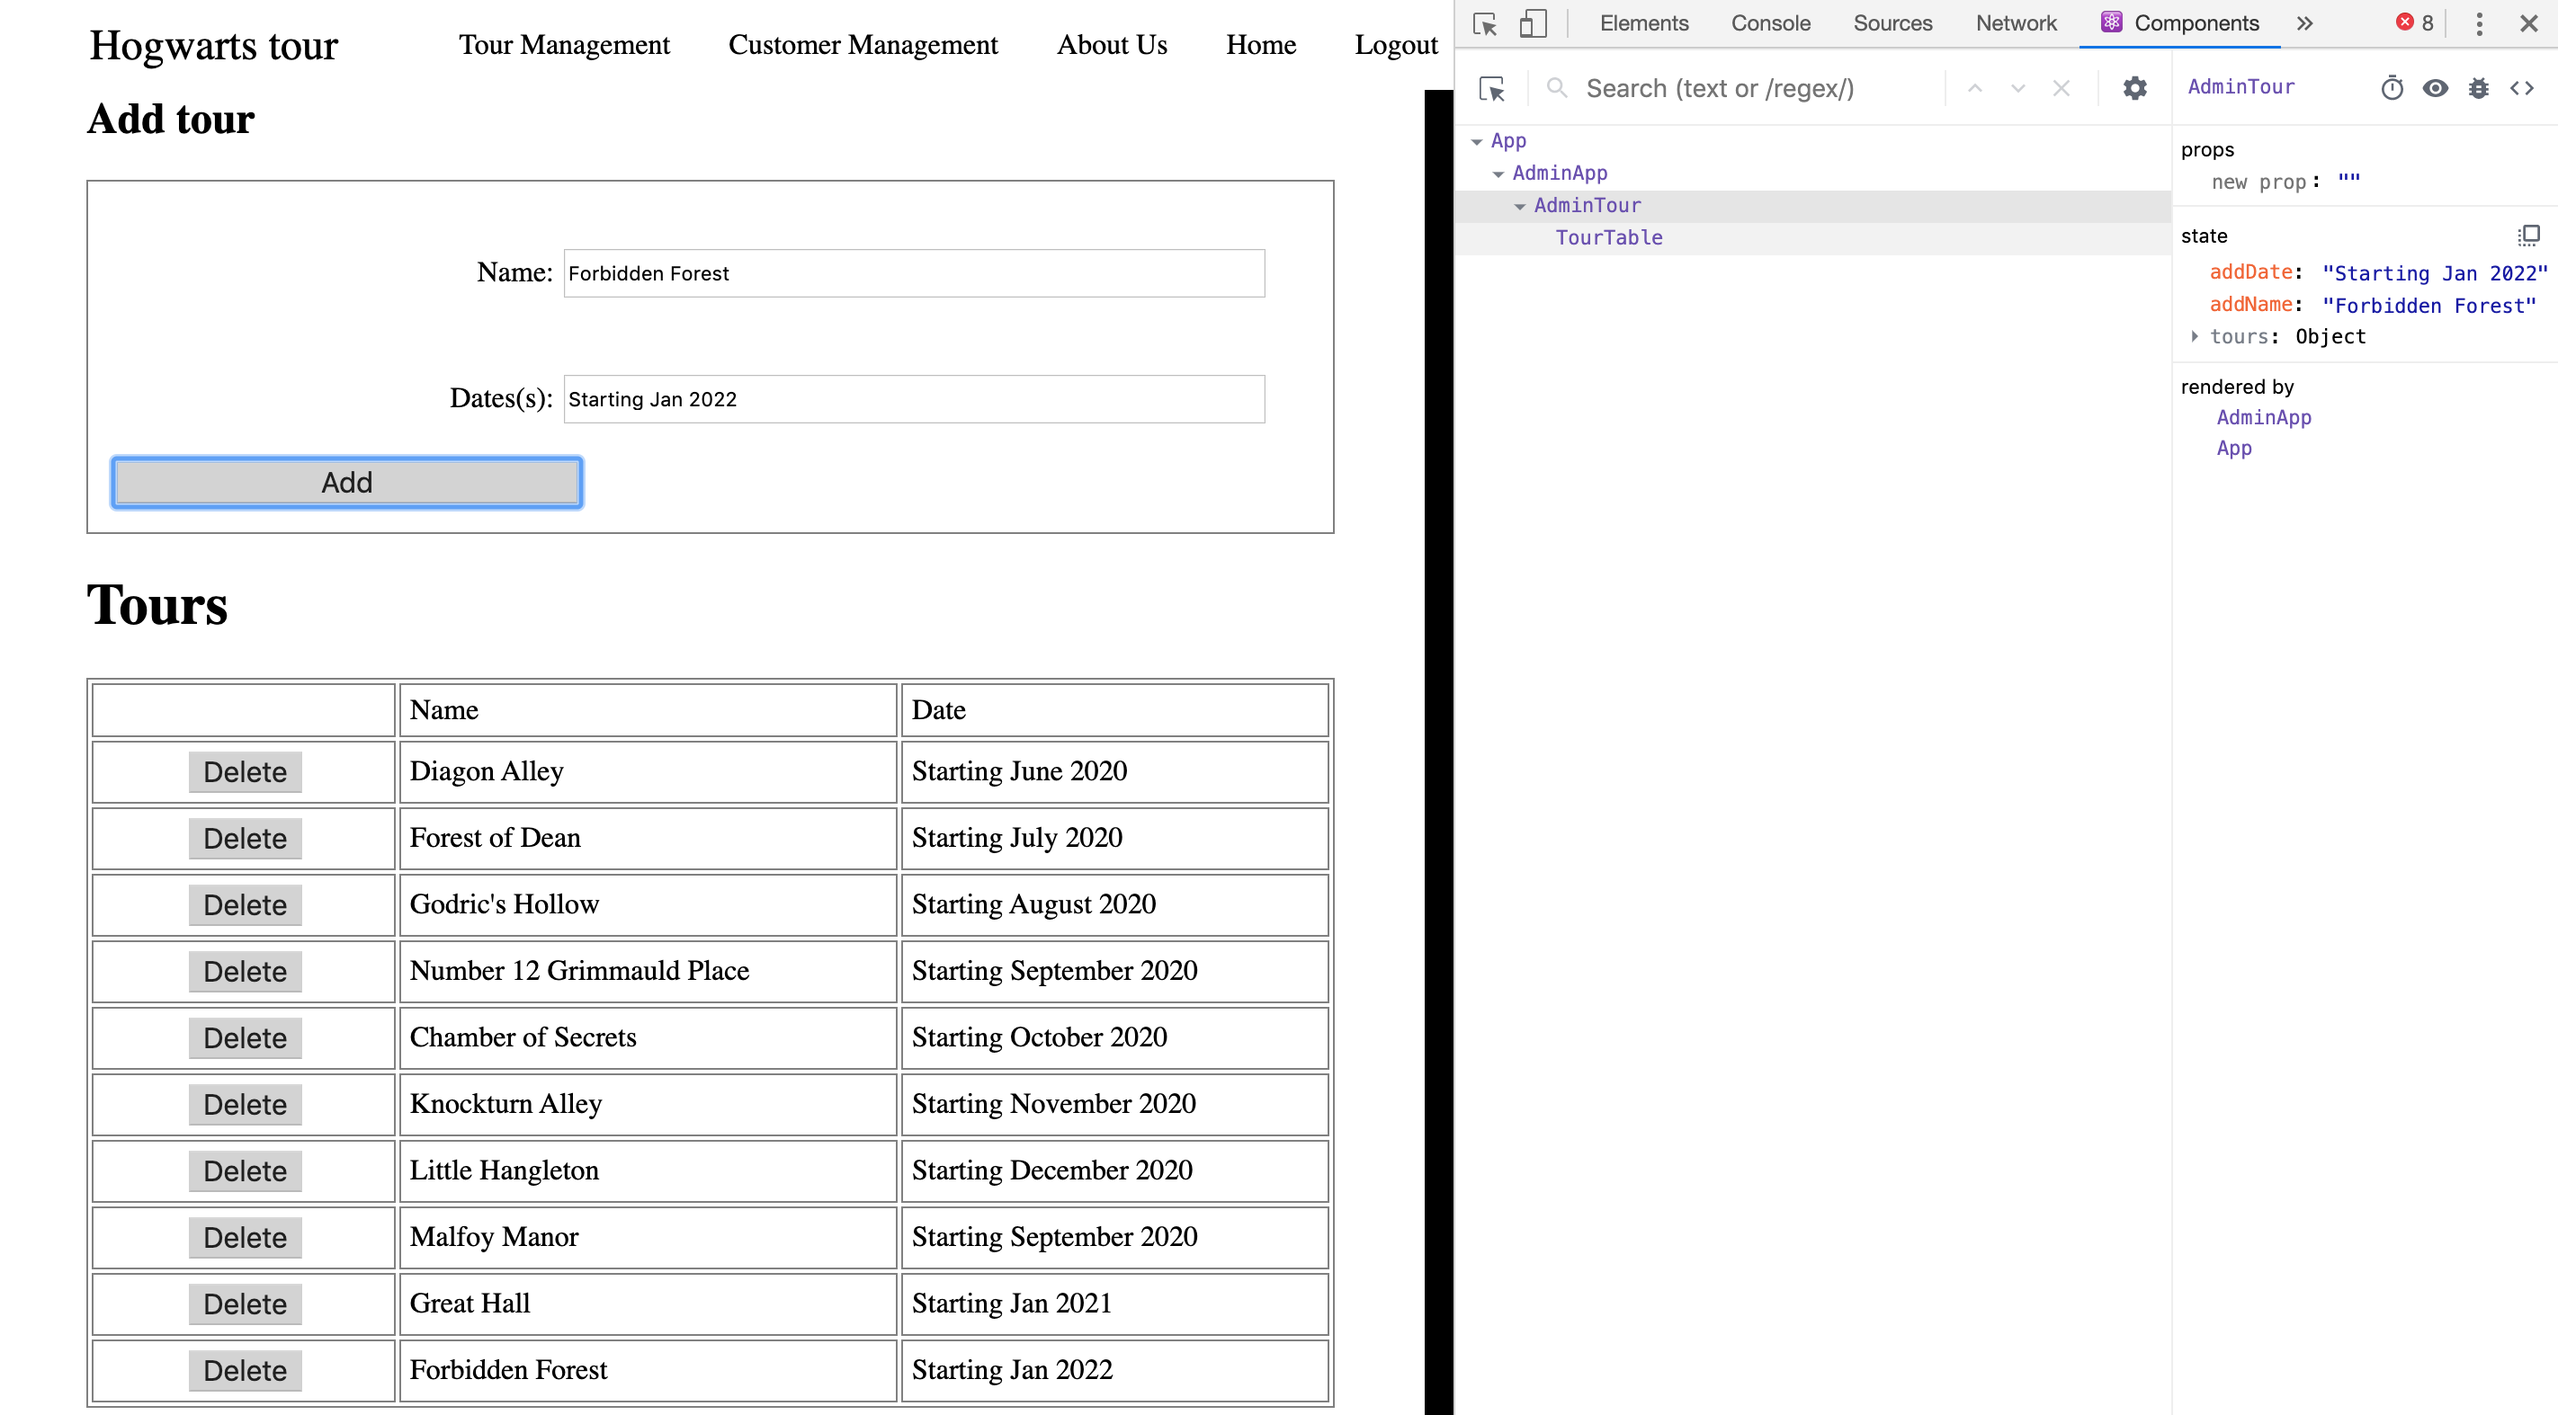
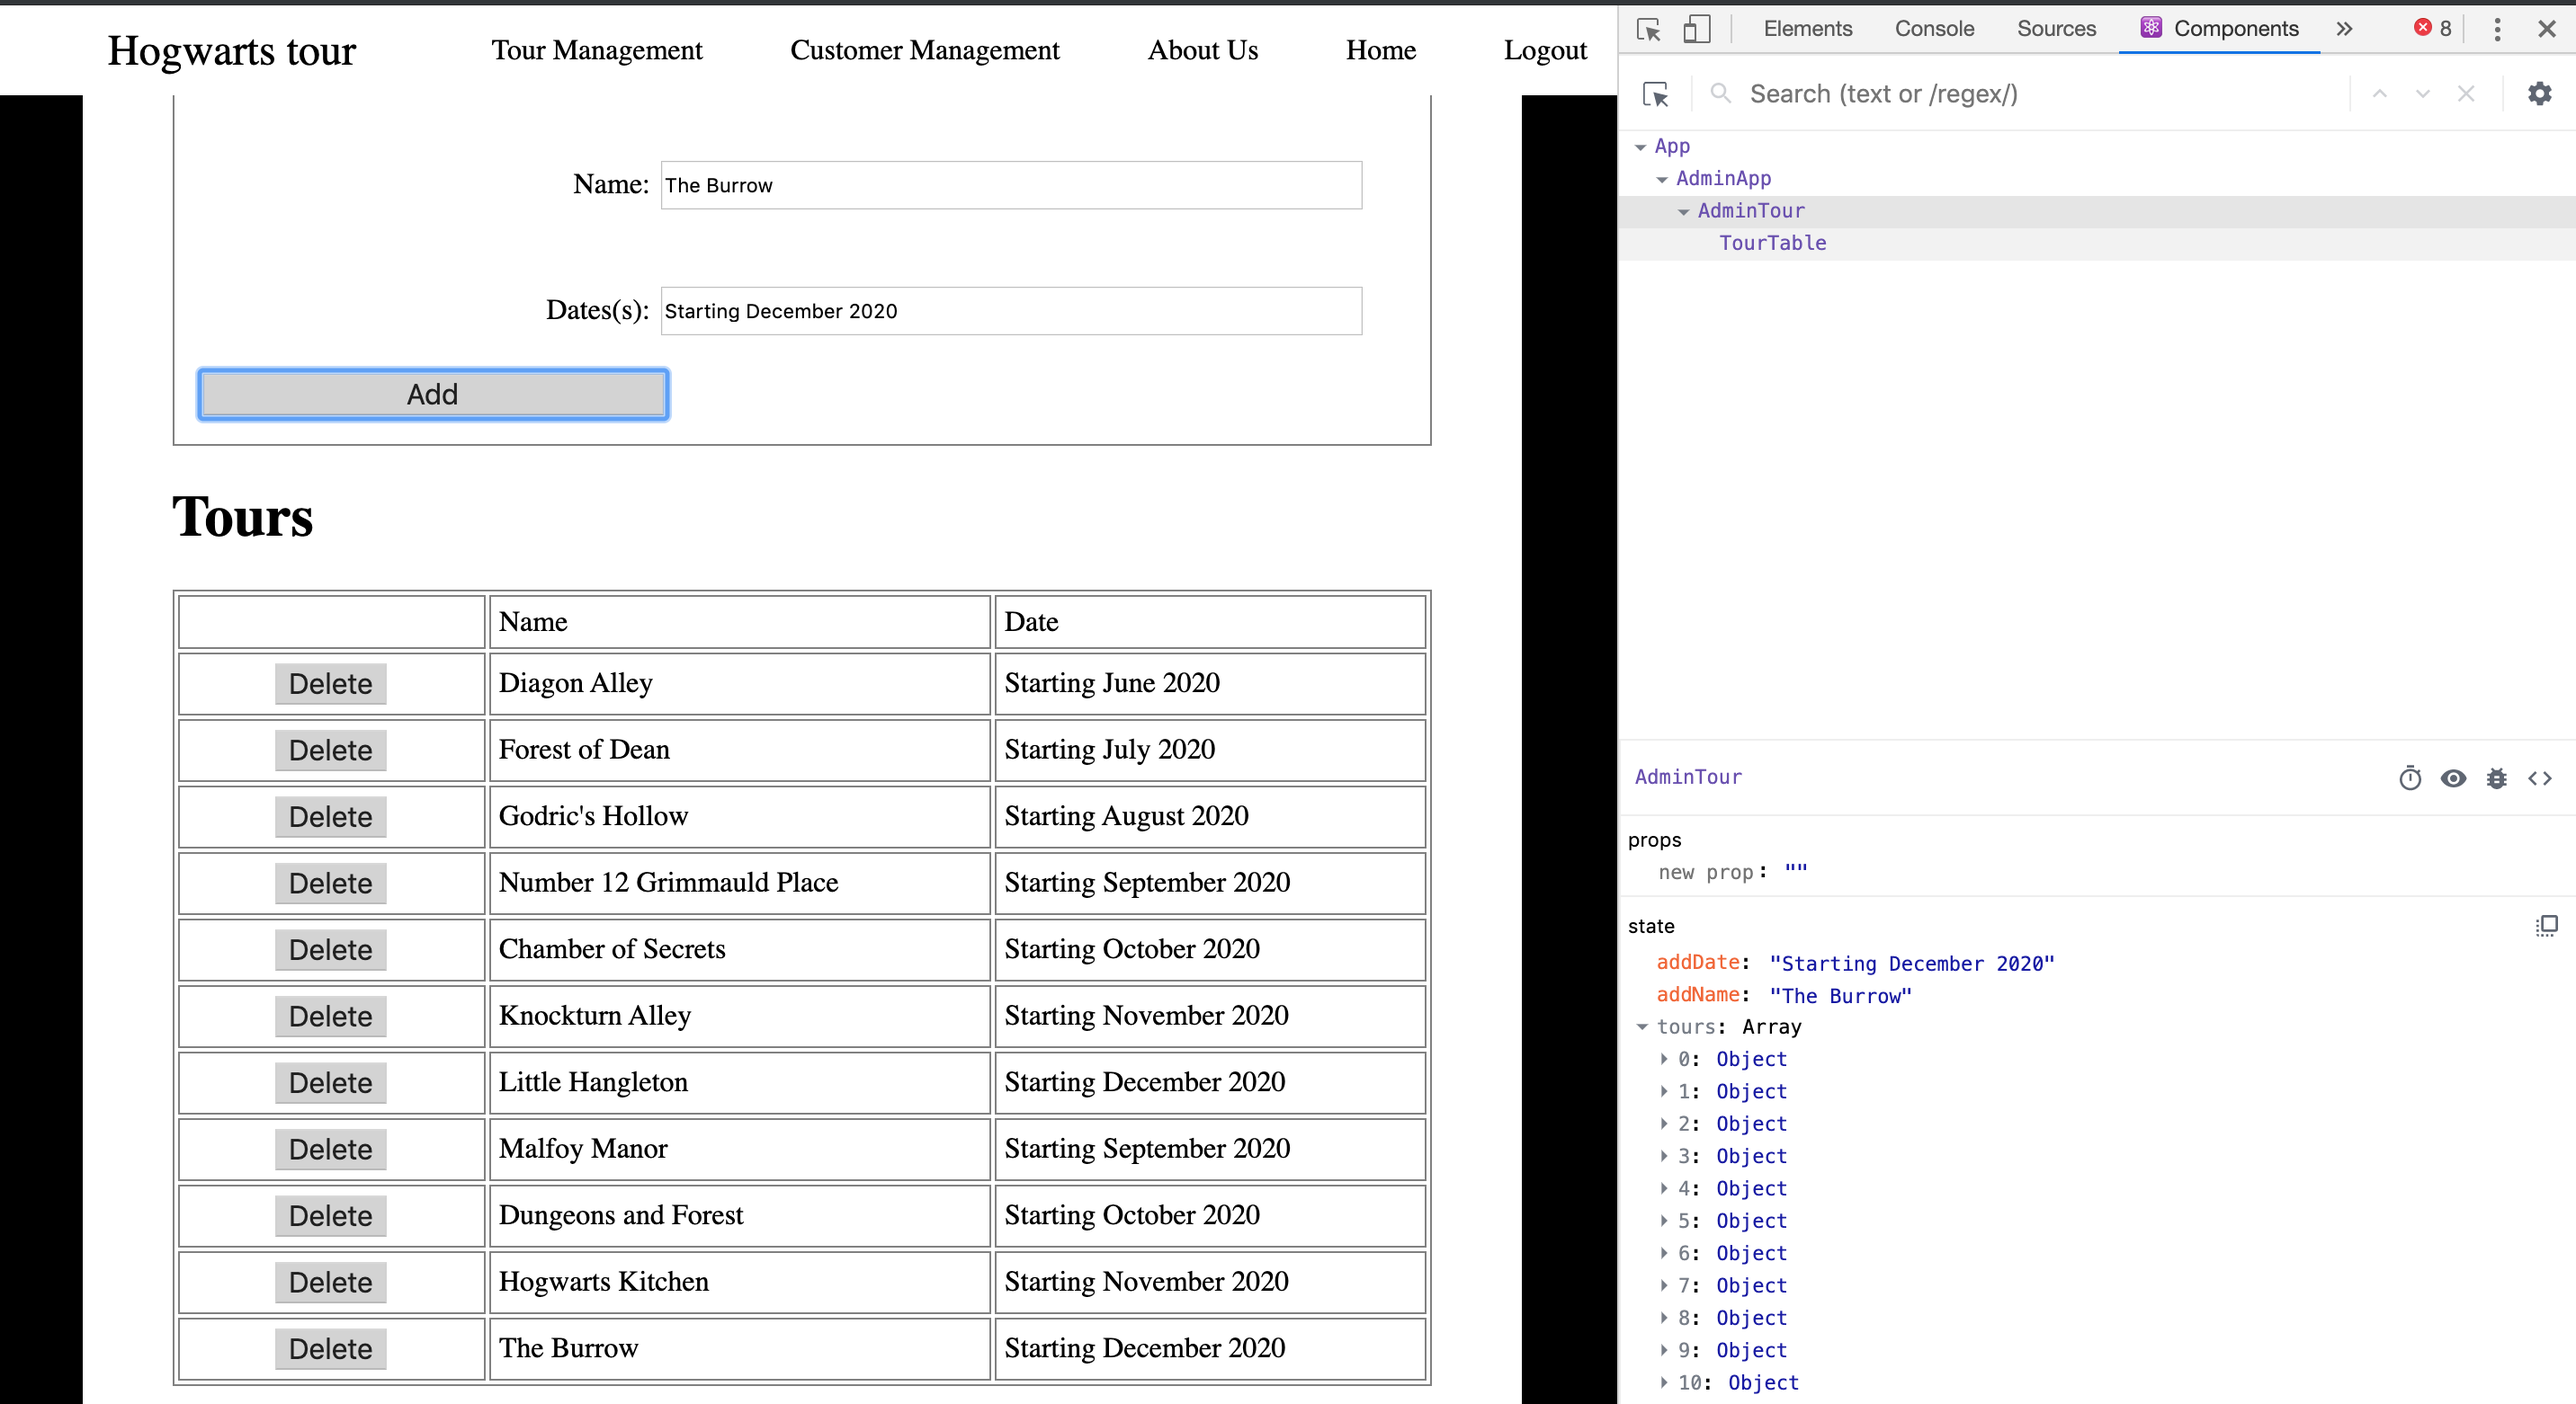
network and promise

Changed region(s): [[0.0, 0.0, 1.0, 1.0], [0.2166, 0.1229, 0.3094, 0.1536]]

diff --git a/ReactTour/admin/AdminTour.js b/ReactTour/admin/AdminTour.js
@@ -9,21 +9,16 @@ class AdminTour extends React.Component {
         this.state = {
             addName:"Just foiling around 3",
             addDate:"Whenever possible",   
-            tours :{
-                name:"name",
-                date: "name"
-            }
+            tours : tourData
+            
         }
         
     }
-   
 
     addTour(event){
     event.preventDefault();
-    this.setState({tours: {name: this.state.addName, date: this.state.addDate}});
-    event.preventDefault();
     console.log();
-    tourData.push({"name": this.state.addName, "date": this.state.addDate});
+    this.setState({tours: this.state.tours.concat([{name:this.state.addName, date:this.state.addDate}])});
 
        }
 
@@ -41,7 +36,13 @@ class AdminTour extends React.Component {
         console.log(event.target.value);
         console.log("date change");
       }     
-    
+      deleteTour(index){
+          console.log("delete clicked");
+          let subTours = {};
+          subTours = this.state.tours.filter((i) => index !== i );
+          let toursNew = Object.assign({}, this.state.tours, subTours);
+          this.setState({tours: toursNew});
+      }    
 
 
     render() {
@@ -60,7 +61,7 @@ class AdminTour extends React.Component {
   <button id="login-button" onClick={this.addTour.bind(this)} >Add</button>
 </form>
 </div>
-<TourTable tourData={tourData} tours={this.state.tours} />
+<TourTable tourData={this.state.tours}  deleteTour={this.deleteTour.bind(this)} />
 </div>
         );
     }

diff --git a/ReactTour/guest/TourTable.js b/ReactTour/guest/TourTable.js
@@ -2,14 +2,16 @@ import React from "react";
 import "../hogwarts.css";
 
 function TourTable(props) {
-const row = props.tourData.map((tourDataRow,index) => 
-<tr> <td><button id="delete-button">Delete</button></td>
-
+console.log(props.tourData);
+let data = Array.from(props.tourData);
+let row = data.map(function(tourDataRow, i){
+return <tr key = {i}> <td><button id="delete-button" onClick={props.deleteTour.bind(null,i)}>Delete</button></td>
 <td>{tourDataRow.name}</td>
-<td>{tourDataRow.date}</td></tr>);
+<td>{tourDataRow.date}</td></tr>
+});
+
 return (
       <div>
-       
         <h1>Tours</h1>
       <table >
       

diff --git a/networking/ipPublicWebsite.js b/networking/ipPublicWebsite.js
@@ -1,0 +1,8 @@
+const dns = require("dns");
+// Use a different website domain here, not mine!
+dns.resolve("goodreads.com", function(err, addresses) {
+    if (err) {
+        console.log("Some type of error");
+    } else {
+        console.log(addresses);
+}});

diff --git a/ReactTour/guest/Tours.js b/ReactTour/guest/Tours.js
@@ -13,9 +13,7 @@ class Tours extends React.Component {
     render() {
         return (
             <div>
- 
                 <div><TourTable tourData={tourData} /></div>
-
     </div>
         );
     }

diff --git a/networking/networking.js b/networking/networking.js
@@ -1,0 +1,3 @@
+const os=require('os');
+let networkInterfaces = os.networkInterfaces();
+console.log(networkInterfaces);

diff --git a/README.md b/README.md
@@ -27,10 +27,8 @@ class AdminTour extends React.Component {
         this.state = {
             addName:"Just foiling around 3",
             addDate:"Whenever possible",   
-            tours :{
-                name:"name",
-                date: "name"
-            }
+            tours : tourData
+            
         }
         
     }
@@ -40,7 +38,8 @@ class AdminTour extends React.Component {
 
 ```javascript
 
-<form id="add-tour">
+<div><h2>Add tour</h2>
+                <form id="add-tour">
   <label>
     Name:
     <input type="text" name="name" value={this.state.addNname} onChange={this.textNameChange.bind(this)}/>
@@ -52,8 +51,7 @@ class AdminTour extends React.Component {
   <button id="login-button" onClick={this.addTour.bind(this)} >Add</button>
 </form>
 </div>
-<TourTable tourData={tourData} tours={this.state.tours} />
-</div>
+<TourTable tourData={this.state.tours} />
 
 ```
 
@@ -61,12 +59,10 @@ class AdminTour extends React.Component {
 
 ```javascript
 
-   addTour(event){
-    event.preventDefault();
-    this.setState({tours: {name: this.state.addName, date: this.state.addDate}});
+       addTour(event){
     event.preventDefault();
     console.log();
-    tourData.push({"name": this.state.addName, "date": this.state.addDate});
+    this.setState({tours: this.state.tours.concat([{name:this.state.addName, date:this.state.addDate}])})
 
        }
 
@@ -83,6 +79,89 @@ class AdminTour extends React.Component {
         this.setState({addDate: event.target.value});
         console.log(event.target.value);
         console.log("date change");
-      }  
+      } 
 
 ```
+
+## Question 3
+
+### (a)
+
+![Developer-tool Screenshot](images/networking.png)
+
+### (c)
+
+Website: goodreads.com
+
+IP address returned [ '54.239.26.220', '52.94.226.87', '52.94.237.126' ]
+
+### (d)
+
+![Developer-tool Screenshot](images/ipAddress.png)
+
+## Question 4
+
+### (a)
+
+Function this :
+In most cases, the value of this is determined by how a function is called. It can’t be set by assignment during execution, and it may be different each time the function is called.
+
+Global context :
+In the global execution context (outside of any function), this refers to the global object, whether in strict mode or not.
+
+
+### (c)
+
+**Output of the code**
+
+Is this the start?
+When does this print?
+Is this the end?
+undefined
+this is a msg from CS651
+This is a msg from CS351
+
+**Explanation**
+ 1. The following code prints the first console log statement 'Is this the start?'
+ 2. it then calls the setTimeout() method which evaluates an expression after a specified number of milliseconds, in the above code cs351 is the function, so it is called and the console.log('This is a msg from CS351'); statement is printed  and this is evaluated immediately because there is no specified number of milliseconds mentioned in the setTimeout method
+ 3. It prints the next console.log('When does this print?);
+ 4. It calls the setTimeout method which calls the function CS351, the time interval is O milliseconds, so this is called immediately with no time interval.
+ 5. It prints the next console.log('Is this the end');
+
+ the setTimeout(cs651); is the same as setTimeout(cs351,0); because the time interval is 0 milliseconds for the second method. 
+
+### (d)
+
+add the following statement :
+
+Promise.race(myPs).then((msg) => console.log(`the winner is ${msg}`));
+
+```javascript
+function winner(name) {
+  console.log(`The winner is ${name}`);
+}
+myP1 = new Promise(function(resolve, reject){
+    setTimeout(()=>resolve("P1"), 1000*Math.random());
+});
+myP2 = new Promise(function(resolve, reject){
+    setTimeout(()=>resolve("P2"), 1000*Math.random());
+});
+myP3 = new Promise(function(resolve, reject){
+    setTimeout(()=>resolve("P3"), 1000*Math.random());
+});
+myPs = [myP1, myP2, myP3];
+racingPs = Promise.race(myPs);
+Promise.race(myPs).then((msg) => console.log(`the winner is ${msg}`));
+```
+
+myP1, myP2, myP3 are a promise objects which  represents the eventual completion (or failure) of an asynchronous operation, and its resulting value.
+
+myPs is an array containing all the promises [myP1, myP2, myP3]
+
+The Promise.race(myPs) method returns a promise that resolves or rejects as soon as one of the promises in the iterable resolves or rejects, with the value or reason from that promises.
+
+the above promises call the setTimeout method to resolve the promise and set the time interval to to 1000 millseconds * Math.random()
+
+Math.random() generates a random number
+
+Promise.race(myPs).then((msg)) console logs the winner of the race which is myP1 in the above code snippet
